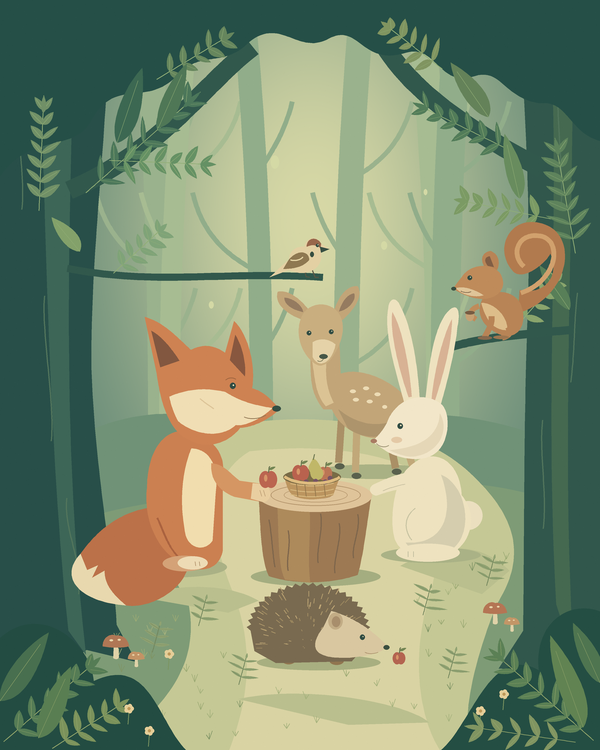
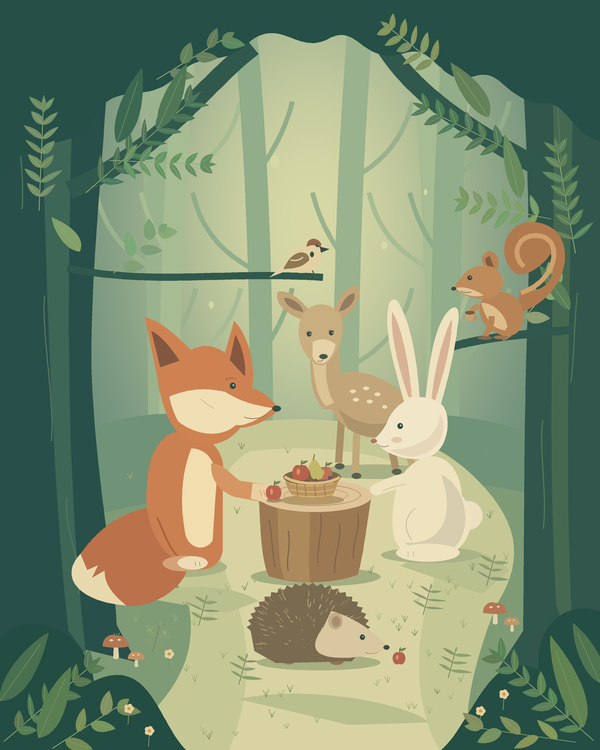
Make forest example ground protection shape-aware and clarify the stump interaction
Ground marks now avoid a margin-grown mask of animal and prop silhouettes
instead of coarse rectangles. The fox's apple rests on the stump top, the
deer lowers its gaze to the basket, and foliage mixes frond and broad leaves.
Roadmap, example notes and project memory record what is still open.

diff --git a/examples/forest-gathering/render.py b/examples/forest-gathering/render.py
@@ -1,4 +1,5 @@
 """Original digital storybook scene, constructed from edited flat forms."""
+from functools import lru_cache
 from pathlib import Path
 import math
 import random
@@ -172,12 +173,20 @@ def offset(commands,dx,dy):
     return [(kind,*[(x+dx,y+dy) for x,y in coords]) for kind,*coords in commands]
 
 
-def eye(im,x,y,r=4,color='#314c43'):
-    ellipse(im,x,y,r,r*1.08,color)
-    ellipse(im,x+1,y-1,max(.75,r*.22),max(.75,r*.22),'#f6e7bf')
+def eye(im,x,y,r=4,color='#314c43',gaze=(0,0),lid=None):
+    gx,gy=gaze
+    ellipse(im,x+gx*.4,y+gy*.4,r,r*1.08,color)
+    ellipse(im,x+1+gx,y-1+gy,max(.75,r*.22),max(.75,r*.22),'#f6e7bf')
+    if lid:
+        path(im,[('M',(x-r*1.25,y-r*.45)),('C',(x-r*.5,y-r*1.15),(x+r*.5,y-r*1.15),(x+r*1.25,y-r*.45))],
+             stroke=lid,width=1.6)
 
 
-def sprig(im,base,tip,count,color,stemcolor,seed=0,leafwidth=10):
+def jitter(color,rng,amount=9):
+    return tuple(max(0,min(255,c+rng.randint(-amount,amount))) for c in rgb(color))
+
+
+def sprig(im,base,tip,count,color,stemcolor,seed=0,leafwidth=10,kind='frond'):
     rng=random.Random(seed)
     dx,dy=tip[0]-base[0],tip[1]-base[1]
     length=math.hypot(dx,dy)
@@ -187,11 +196,18 @@ def sprig(im,base,tip,count,color,stemcolor,seed=0,leafwidth=10):
     for i in range(1,count+1):
         t=i/(count+1)
         root=(base[0]+dx*t,base[1]+dy*t)
+        if kind=='broad':
+            # Broad leaves alternate along the stem and swing wider than fronds do.
+            side=1 if i%2 else -1
+            reach=rng.uniform(26,40)*(1-t*.3)
+            end=(root[0]+nx*reach*side+dx*.2,root[1]+ny*reach*side+dy*.2)
+            leaf(im,root,end,leafwidth*rng.uniform(1.25,1.7),jitter(color,rng),stemcolor)
+            continue
         for side in (-1,1):
             reach=rng.uniform(21,42)*(1-t*.4)
             end=(root[0]+nx*reach*side+dx*.11,root[1]+ny*reach*side+dy*.11)
-            leaf(im,root,end,leafwidth*rng.uniform(.65,1.15),color,stemcolor)
-    leaf(im,(base[0]+dx*.85,base[1]+dy*.85),tip,leafwidth*.65,color)
+            leaf(im,root,end,leafwidth*rng.uniform(.65,1.15),jitter(color,rng,6),stemcolor)
+    leaf(im,(base[0]+dx*.85,base[1]+dy*.85),tip,leafwidth*(1.1 if kind=='broad' else .65),color)
 
 
 def forest(im):
@@ -259,8 +275,9 @@ def forest(im):
             ((65,351),(73,159),7,'#719067',14),((959,422),(925,230),7,'#5e835c',15),
             ((261,132),(390,54),5,'#66865d',16),((737,115),(635,36),5,'#809460',17),
             ((189,455),(278,373),5,'#7fa378',18),((861,544),(937,456),4,'#89a46c',19)]
+    broad={16,18,19}
     for base,tip,n,color,seed in sprays:
-        sprig(im,base,tip,n,color,'#91ae76',seed,12)
+        sprig(im,base,tip,n,color,'#91ae76',seed,12,'broad' if seed in broad else 'frond')
     # Individual larger leaves keep the canopy from becoming identical small fronds.
     for root,tip,width,color in [((195,238),(237,113),35,'#3c6852'),((264,213),(311,106),30,'#4f7756'),
                                 ((814,195),(751,104),32,'#648259'),((866,331),(841,223),27,'#688c5e'),
@@ -290,8 +307,9 @@ def deer(im):
     path(im,DEER_HEAD,fill='#c9ae7f')
     path(im,[('M',(521,570)),('C',(532,564),(546,563),(559,574)),
              ('C',(553,604),(532,616),(521,595)),('L',(521,570))],fill='#e5d2a8')
-    eye(im,515,555,3.7)
-    eye(im,552,553,3.7)
+    # The deer lowers its gaze to the basket, so attention runs fox, basket, rabbit and deer.
+    eye(im,515,556,3.7,gaze=(.6,1.7),lid='#8d7455')
+    eye(im,552,554,3.7,gaze=(.6,1.7),lid='#8d7455')
     ellipse(im,539,594,7,4,'#475747')
     path(im,[('M',(539,598)),('C',(536,603),(532,603),(529,601))],stroke='#7f7d5c',width=1)
     for x,y,rx,ry in [(588,652,5,3),(610,647,5,3),(629,657,5,3),
@@ -378,8 +396,6 @@ def fox(im):
     path(im,[('M',(421,805)),('L',(442,807)),('C',(454,818),(453,833),(439,837)),
              ('L',(418,831)),('L',(421,805))],fill='#e9cea0')
     for x in (433,439):path(im,[('M',(x,817)),('L',(x+3,827))],stroke='#b99a70',width=1)
-    # A rounded apple rests immediately above the paw, not floating between objects.
-    apple(im,447,799,14,'#bb6550')
 
 
 def rabbit(im):
@@ -429,6 +445,7 @@ def table(im):
     ellipse(im,526,825,75,18,None,'#b5966d',1.3)
     ellipse(im,526,825,53,12,None,'#b5966d',1)
     ellipse(im,530,825,23,6,None,'#b5966d',1)
+    ellipse(im,521,833,52,8,'#b39868')
     # Basket bottom lies on the stump surface; the fruit sits inside the rim.
     path(im,[('M',(474,794)),('C',(478,813),(482,824),(494,828)),
              ('C',(511,835),(542,832),(555,825)),('L',(566,795)),('L',(474,794))],fill='#bc955f')
@@ -487,10 +504,37 @@ def mushroom(im,x,y,r,color):
     ellipse(im,x+r*.26,y-r*.49,r*.11,r*.07,'#e8d5ab')
 
 
+PROTECT_MARGIN=12
+PROTECTED_SHAPES=[FOX_TAIL,FOX_BODY,FOX_HEAD,
+                  RABBIT_BODY,RABBIT_HEAD,*RABBIT_EARS,
+                  DEER_BODY,DEER_NECK,DEER_HEAD,*DEER_EARS,
+                  SQUIRREL_TAIL,SQUIRREL_BODY,SQUIRREL_HEAD,
+                  [('M',(431,825)),('L',(446,958)),('L',(596,958)),('L',(619,825))],
+                  [('M',(352,772)),('L',(399,801)),('L',(454,818)),('L',(439,837)),('L',(391,828))]]
+PROTECTED_ELLIPSES=[(525,826,95,27),(514,1050,103,78),(644,1079,10,8),(665,1097,12,12),
+                    (308,941,40,14),(709,922,55,16)]
+PROTECTED_LEGS=[((570,680),(564,780)),((595,696),(592,791)),((642,696),(659,789)),((660,689),(687,781))]
+
+
+@lru_cache(maxsize=1)
+def protection_mask():
+    """Silhouettes of the animals and props, grown by PROTECT_MARGIN, at page scale."""
+    im=Image.new('L',SIZE)
+    d=ImageDraw.Draw(im)
+    for shape in PROTECTED_SHAPES:
+        d.polygon(sample(shape),fill=255)
+    for x,y,rx,ry in PROTECTED_ELLIPSES:
+        d.ellipse((x-rx,y-ry,x+rx,y+ry),fill=255)
+    for a,b in PROTECTED_LEGS:
+        d.line([a,b],fill=255,width=14)
+    return im.filter(ImageFilter.MaxFilter(PROTECT_MARGIN*2+1))
+
+
 def grass_allowed(x,y):
-    protected=[(95,505,469,1018),(608,485,811,948),(448,472,699,804),
-               (408,953,686,1120),(426,790,623,980)]
-    return not any(x0<=x<=x1 and y0<=y<=y1 for x0,y0,x1,y1 in protected)
+    width,height=SIZE
+    if not (0<=x<width and 0<=y<height):
+        return False
+    return protection_mask().getpixel((int(x),int(y)))==0
 
 
 def floor_detail(im):
@@ -517,7 +561,7 @@ def floor_detail(im):
     foreground=[((6,1236),(168,1095),6,'#557c55',1,14),((87,1247),(215,1165),5,'#7b925b',2,12),
                 ((989,1234),(814,1080),7,'#5b8055',3,13),((959,1237),(774,1210),5,'#809461',4,12)]
     for b,t,n,col,seed,width in foreground:
-        sprig(im,b,t,n,col,'#93a66b',seed,width)
+        sprig(im,b,t,n,col,'#93a66b',seed,width,'broad' if seed in (2,4) else 'frond')
     for root,tip,width,color in [((0,1168),(81,1054),37,'#486f4f'),((64,1230),(118,1111),36,'#597e52'),
                                 ((972,1212),(917,1059),37,'#618352'),((1000,1138),(955,1038),30,'#4f7550')]:
         leaf(im,root,tip,width,color,'#8ca067')
@@ -553,7 +597,9 @@ def full_scene():
              ('L',(418,831)),('L',(421,805))],fill='#e9cea0')
     for x in (433,439):
         path(im,[('M',(x,817)),('L',(x+3,827))],stroke='#b99a70',width=1)
-    apple(im,447,799,14,'#bb6550')
+    # The fox pushes an apple across the stump top; its shadow lies on the wood, inside the rim.
+    ellipse(im,457,834,13,3.6,'#a98c63')
+    apple(im,456,821,12,'#bb6550')
     path(im,[('M',(623,807)),('C',(613,812),(615,824),(627,826)),('L',(634,823)),('L',(631,806)),('L',(623,807))],fill='#eee2bf')
     hedgehog(im)
     floor_detail(im)

diff --git a/examples/forest-gathering/test_outputs.py b/examples/forest-gathering/test_outputs.py
@@ -17,6 +17,20 @@ class Outputs(unittest.TestCase):
         for point in ((300,1180),(820,960),(205,1080)):
             self.assertTrue(module.grass_allowed(*point),point)
 
+    def test_ground_protection_follows_shapes_not_bounding_boxes(self):
+        spec = importlib.util.spec_from_file_location('forest_renderer',ROOT/'render.py')
+        module = importlib.util.module_from_spec(spec)
+        spec.loader.exec_module(module)
+        # Inside the old rectangles but clear of every animal and prop.
+        for point in ((130,800),(420,1115),(690,1110)):
+            self.assertTrue(module.grass_allowed(*point),point)
+        # Just outside a contour: the margin still keeps marks off the silhouette.
+        for point in ((409,1051),(430,900)):
+            self.assertFalse(module.grass_allowed(*point),point)
+        # Ears, paws and the stump rim stay protected.
+        for point in ((650,520),(430,820),(623,815),(525,826)):
+            self.assertFalse(module.grass_allowed(*point),point)
+
     def test_full_page_exists_and_has_requested_ratio(self):
         path = ROOT/'forest-gathering.png'
         self.assertTrue(path.exists(), 'Full illustration not rendered')

diff --git a/docs/examples.md b/docs/examples.md
@@ -14,9 +14,11 @@ The portable renderer uses DejaVu Serif or Pillow's fallback for labels. Earlier
 
 The page contains six fictional woodland characters around a basket on a stump. It is full bleed and has no text. The layout was opened before the full scene was implemented. The squirrel/perch was moved to avoid a rabbit-ear tangency.
 
-Later inspections found grass marks on animals and on the stump, overlong sparrow legs, and a fox paw partly hidden by the tabletop. These were revised. Ground-mark exclusions are currently coarse protected rectangles; the tests cover representative points, not every possible composition.
+Later inspections found grass marks on animals and on the stump, overlong sparrow legs, and a fox paw partly hidden by the tabletop. These were revised.
 
-The page remains a work in progress. It needs more refinement in pose/contours, interaction, and environment treatment. See the [roadmap](roadmap.md).
+A second pass replaced the protected rectangles with a shape-aware mask (animal and prop silhouettes grown by a 12 px margin). The tests cover representative points inside the old rectangles, just outside contours, and on ears, paws and the stump rim; they do not cover every possible composition. The same pass moved the fox's apple onto the stump top, lowered the deer's gaze to the basket, and mixed broad leaves into the frond-only foliage. These changes were inspected by the agent at full resolution; no independent reviewer has assessed them.
+
+The page remains a work in progress. It still needs refinement in character proportions and contours and in how foliage joins the branches. See the [roadmap](roadmap.md).
 
 ## Evidence
 

diff --git a/docs/roadmap.md b/docs/roadmap.md
@@ -2,12 +2,19 @@
 
 ## Before calling the samples finished
 
+Open:
+
 - Refine the woodland characters' proportions and local contour joins. Check each pose separately, then inside the scene.
-- Make the paw/fruit/table relationship clearer without increasing decoration.
-- Revisit the deer pose and distribution of attention within the gathering.
-- Improve foliage variation and its attachment to branches. Avoid filling unused areas with the same leaf recipe.
-- Replace coarse bounding-box protection with shape-aware masking when environment marks can overlap characters or props.
+- Revisit the deer's body pose; only its gaze has changed so far.
+- Check how the broad-leaf sprays attach to branches. The fronds and broad leaves share one stem recipe, so variation is still limited.
 - Evaluate a more deliberate painterly treatment; pigment noise and blur are not sufficient evidence of gouache craft.
+
+Addressed in the second pass (agent inspection only, not a viewer study):
+
+- Ground marks now avoid animal and prop silhouettes through a margin-grown mask instead of coarse rectangles.
+- The fox's apple rests on the stump top beside its paw, with a contact shadow on the wood, instead of hovering at the rim.
+- The deer lowers its gaze to the basket, so attention runs fox, basket, rabbit and deer.
+- Canopy and foreground sprays mix fronds with alternating broad leaves and per-leaf colour variation.
 
 The forest page received a provisional response that it was acceptable but still needed cleanup. This list is a development plan, not a claim that every item has been validated by an independent reviewer.
 

diff --git a/AGY_MEMORY.md b/AGY_MEMORY.md
@@ -29,6 +29,12 @@ cionejr is an experimental open-source illustration skill with reproducible Pyth
 - Added a visible invitation for as many people as possible to help improve the project. Drawing critiques and agent-use reports are welcome alongside focused code changes; programming experience is not required.
 - CONTRIBUTING.md now points newcomers to issues or small pull requests. Existing evidence, privacy, and licensing requirements remain in place.
 
+## Forest example second pass
+
+- Replaced coarse protected rectangles with a shape-aware ground-mark mask (silhouettes plus 12 px margin). Wrote the failing test first, then the implementation; the test covers points inside the old boxes, just outside contours, and on ears, paws and the stump rim.
+- Fox apple now sits on the stump top beside the paw with a contact shadow; deer gaze lowered to the basket; foliage mixes fronds and broad leaves with per-leaf colour jitter. Three floating contact shadows added first were judged detached in a full-resolution crop and removed.
+- Checks run: skill validator, 18 repository tests, 5 forest output tests, `git diff --check`. These do not establish artistic quality; visual judgments are the agent's own.
+
 ## Next
 
 Continue the craft work in docs/roadmap.md. Keep publication/technical checks separate from visual approval. Run behavioral evaluations with actual image inputs in separate agent sessions before claiming effectiveness.
